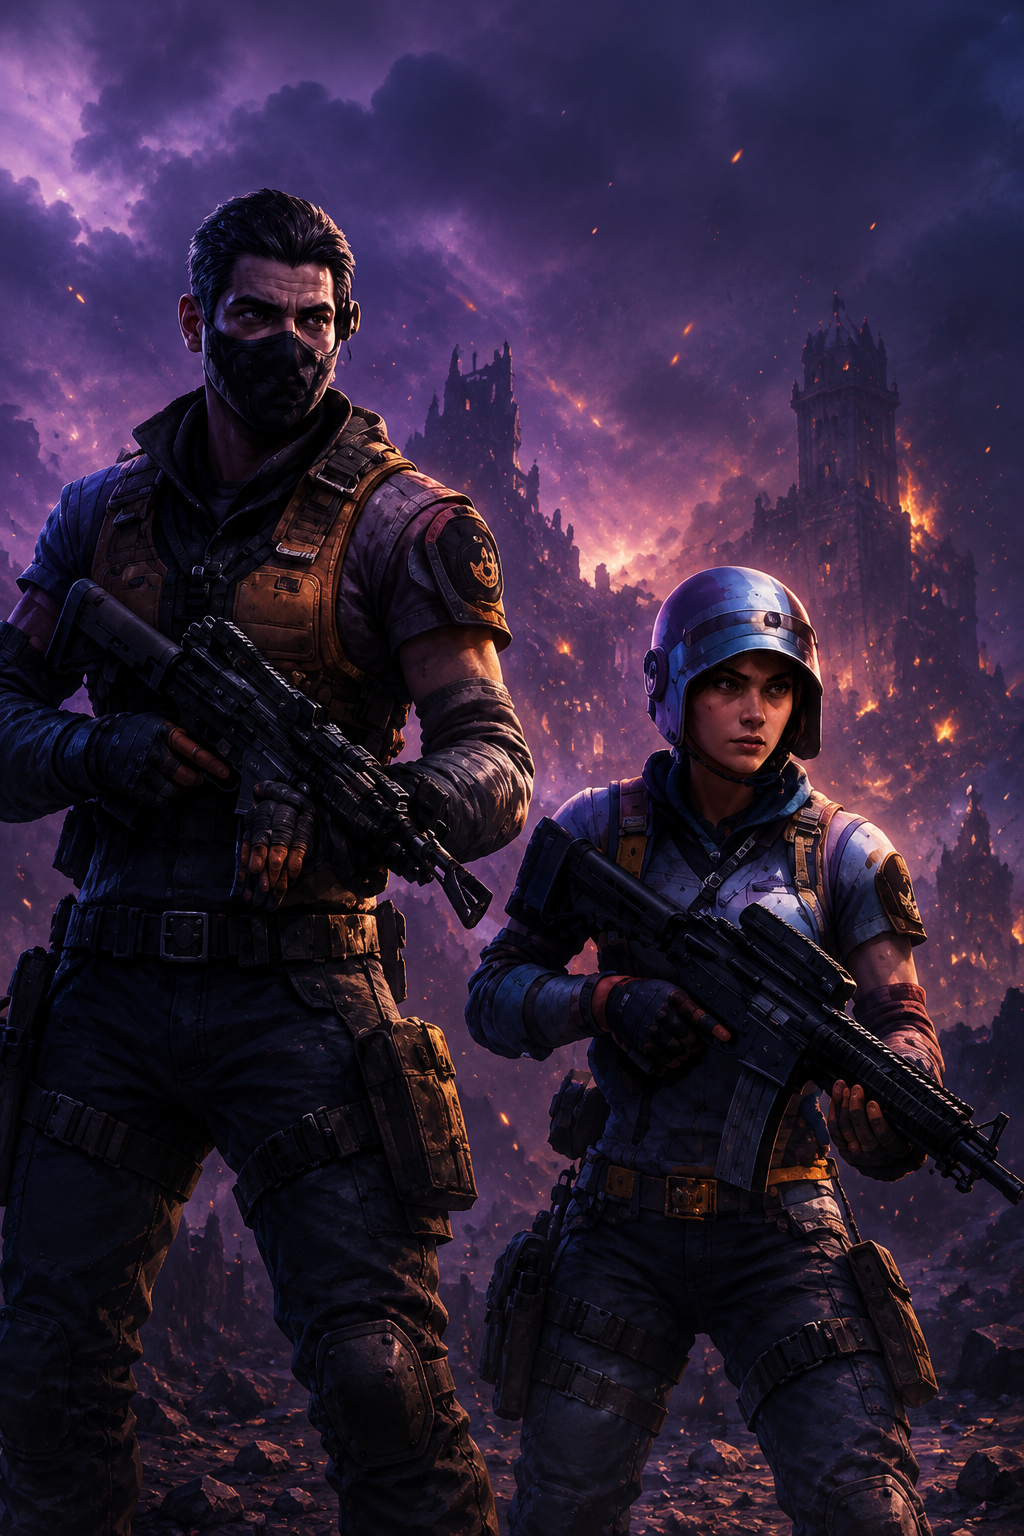
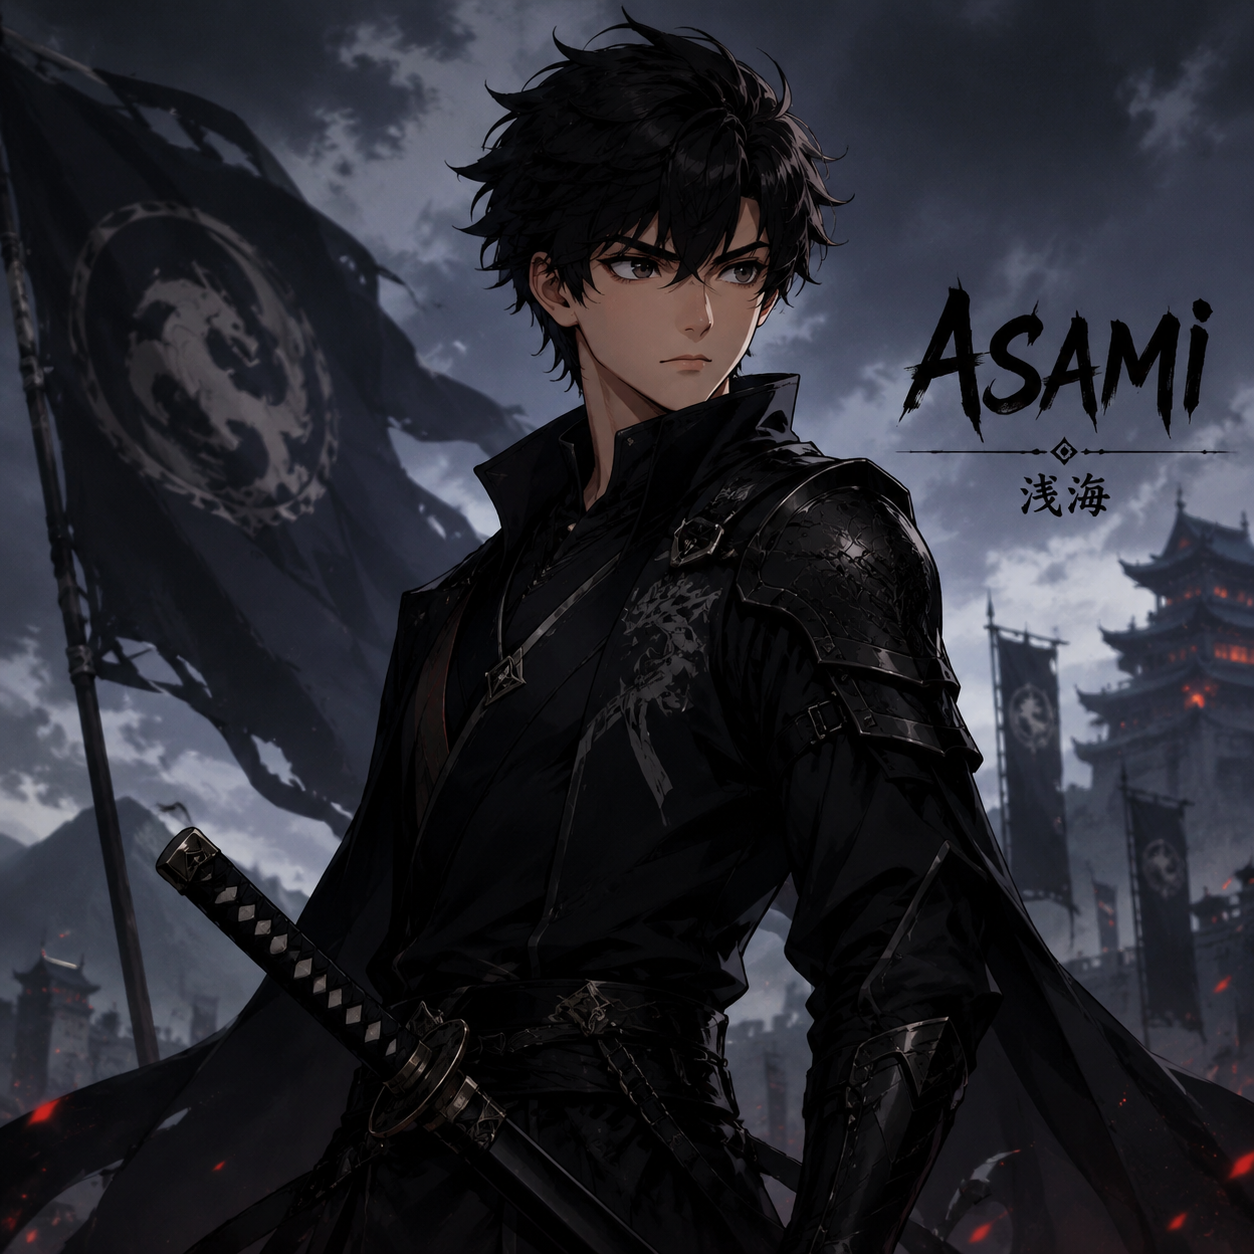
fix: on the edit profile page, profile photo displays

diff --git a/src/screens/EditProfileScreen.tsx b/src/screens/EditProfileScreen.tsx
@@ -65,8 +65,6 @@ export function EditProfileScreen({ navigation }: NativeStackScreenProps<any>) {
     }
   };
 
-  const displayUri = localPhotoUri ?? user?.photoUrl ?? null;
-
   return (
     <Screen scroll keyboard>
       <BackgroundGlow />
@@ -97,8 +95,14 @@ export function EditProfileScreen({ navigation }: NativeStackScreenProps<any>) {
 
       {/* Photo */}
       <View style={{ alignItems: 'center', marginBottom: 28 }}>
-        <Pressable onPress={pickPhoto} style={({ pressed }) => ({ opacity: pressed ? 0.8 : 1 })}>
-          {displayUri ? (
+        <Pressable
+          onPress={pickPhoto}
+          style={({ pressed }) => ({
+            opacity: pressed ? 0.8 : 1,
+            position: 'relative',
+          })}
+        >
+          {localPhotoUri ? (
             <View
               style={{
                 shadowColor: '#7B3FF2',
@@ -108,7 +112,7 @@ export function EditProfileScreen({ navigation }: NativeStackScreenProps<any>) {
               }}
             >
               <Image
-                source={{ uri: localPhotoUri ?? displayUri }}
+                source={{ uri: localPhotoUri }}
                 style={{
                   width: 120,
                   height: 120,
@@ -119,7 +123,7 @@ export function EditProfileScreen({ navigation }: NativeStackScreenProps<any>) {
               />
             </View>
           ) : (
-            <Avatar size={110} name={user?.name} />
+            <Avatar size={110} name={user?.name} uri={user?.photoUrl} />
           )}
           <View
             style={{

diff --git a/src/components/ui/Avatar.tsx b/src/components/ui/Avatar.tsx
@@ -15,17 +15,35 @@ interface Props {
  * Rewrite photo URLs so they point at the API_URL the mobile app actually
  * uses (e.g. 10.0.2.2 on Android) instead of whatever host the backend
  * embedded when the photo was uploaded (usually localhost).
+ * Local schemes (file, content, …) are returned unchanged.
  */
-function resolvePhotoUri(raw: string): string {
+export function resolvePhotoUri(raw: string): string {
+  const s = raw.trim();
+  if (!s) return s;
+  if (
+    s.startsWith('file:') ||
+    s.startsWith('content:') ||
+    s.startsWith('ph://') ||
+    s.startsWith('blob:') ||
+    s.startsWith('data:')
+  ) {
+    return s;
+  }
+  if (s.startsWith('/')) {
+    const base = API_URL.replace(/\/$/, '');
+    return `${base}${s}`;
+  }
   try {
-    const parsed = new URL(raw);
+    const parsed = new URL(s);
+    if (parsed.protocol !== 'http:' && parsed.protocol !== 'https:') {
+      return s;
+    }
     const base = new URL(API_URL);
     parsed.protocol = base.protocol;
     parsed.host = base.host;
     return parsed.toString();
   } catch {
-    if (raw.startsWith('/')) return `${API_URL}${raw}`;
-    return raw;
+    return s;
   }
 }
 
